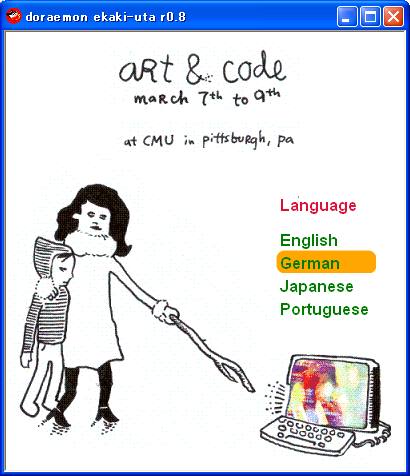
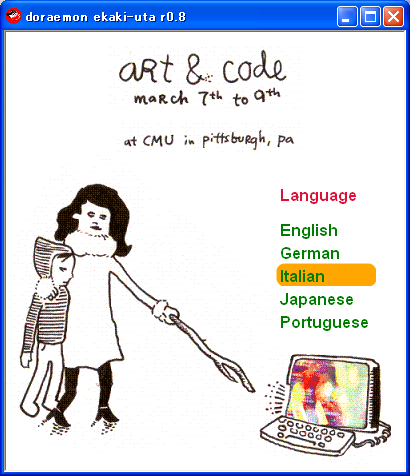
Added Italian lyric created by Max. Thank you!

Changed region(s): [[0.6732, 0.3824, 0.9366, 0.7059], [0.9951, 0.0, 1.0, 0.0294]]

diff --git a/README.md b/README.md
@@ -24,6 +24,7 @@ Japanese lyric version.
 
 Change log:
 -----------
+Mar 11th, 2009: Added Italian lyric. <br>
 Mar 10th, 2009: Added German lyric. <br>
 Mar 09th, 2009: Added Portuguese lyric. <br>
 Mar 07th, 2009: Updated from r0.5 to r0.8. This revision supports multi language lyrics. Now have English and Japanese.
@@ -34,8 +35,9 @@ Someone translates the lyric to another languages. ;-)
 
 Acknowledgment
 --------------
-German lyric was created by [Michael Kohl](http://citizen428.net/). Thanks! <br>
-Portuguese lyric was created by [Marcos Ricardo](http://www.marcric.com/). Thanks!
+- Italian lyric was created by [Massimiliano Giroldi](http://github.com/maxdevel). Thanks!
+- German lyric was created by [Michael Kohl](http://citizen428.net/). Thanks!
+- Portuguese lyric was created by [Marcos Ricardo](http://www.marcric.com/). Thanks!
 
 Have fun! <br>
 ashbb
